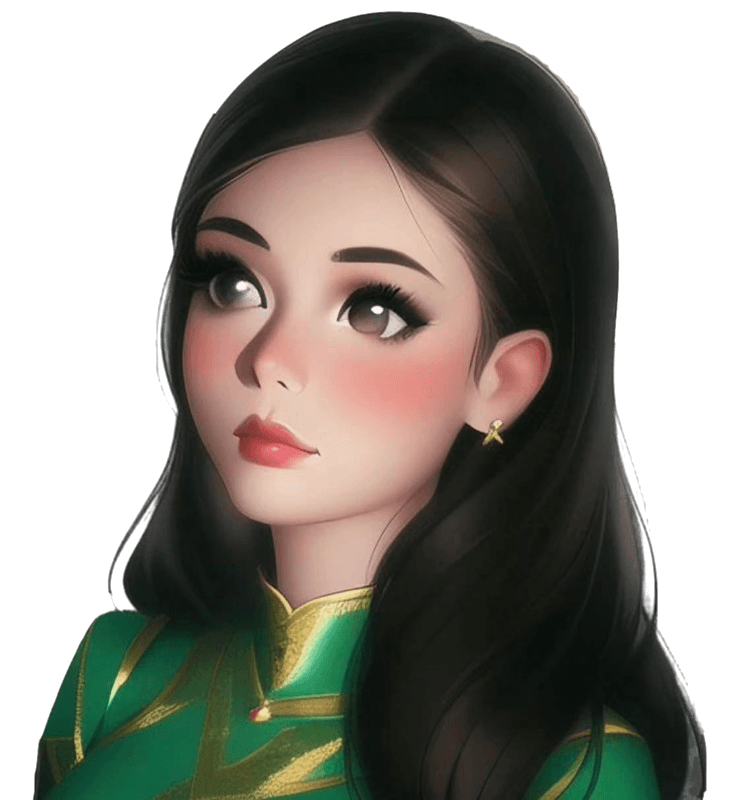
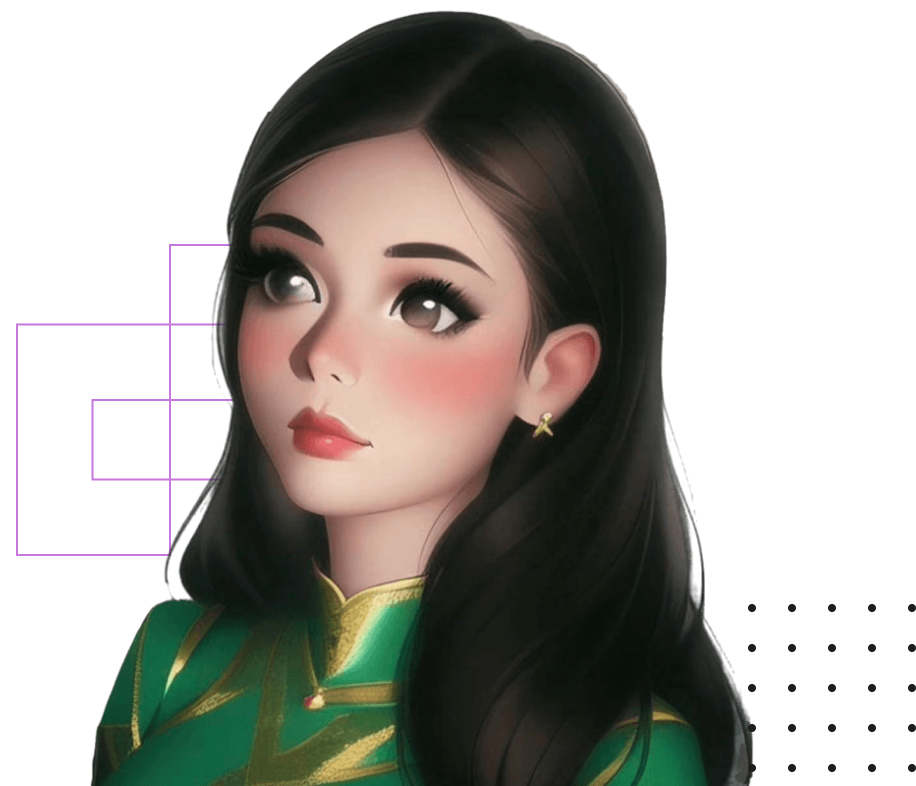
added homepage content

diff --git a/index.html b/index.html
@@ -38,35 +38,121 @@
       <div class="row">
         <div class="col-sm-1">
           <ul class="socials-icons">
+            <li><img src="/img/line-1.png" alt="line" class="socials-line"></li>
             <li>
-            |
+              <a href="#" target="_blank"
+                ><i
+                  class="fa-brands fa-instagram fa-xl"
+                  style="color: #c778dd"
+                ></i
+              ></a>
             </li>
             <li>
-              <a href="#" target="_blank"><i class="fa-brands fa-instagram fa-xl" style="color: #c778dd;"></i></a>
+              <a href="https://github.com/axteria" target="_blank"
+                ><i
+                  class="fa-brands fa-github-alt fa-xl"
+                  style="color: #c778dd"
+                ></i
+              ></a>
             </li>
             <li>
-              <a href="https://github.com/axteria" target="_blank"><i class="fa-brands fa-github-alt fa-xl" style="color: #c778dd;"></i></a>
-            </li>
-            <li>
-              <a href="https://www.linkedin.com/in/faye-678a74114/" target="_blank"><i class="fa-brands fa-linkedin-in fa-xl" style="color: #c778dd;"></i></a>
+              <a
+                href="https://www.linkedin.com/in/faye-678a74114/"
+                target="_blank"
+                ><i
+                  class="fa-brands fa-linkedin-in fa-xl"
+                  style="color: #c778dd"
+                ></i
+              ></a>
             </li>
           </ul>
         </div>
         <div class="col-sm index-hero">
-          <h1>Faye is a <span class="highlight-text">front-end developer</span></h1>
+          <h1>
+            Faye is a <span class="highlight-text">front-end developer</span>
+          </h1>
           <h3 class="mt-4 mb-4">She is based in Melbourne, Australia</h3>
-          <button class="primary-button">Contact Me!</button>
+          <a href="/" class="launch-links text-reset text-decoration-none">Contact Me!</a>
         </div>
         <div class="col-sm">
-          <img src="img/avatar.png" alt="avatar of faye" title="avatar of faye" class="avatar img-fluid  max-width: 100%;">
+          <img
+            src="img/avatar.png"
+            alt="avatar of faye"
+            title="avatar of faye"
+            class="avatar img-fluid max-width: 100%;"
+          />
+        </div>
       </div>
     </div>
-  </body>
 
-    <footer>
-      <a href="/">Home</a>
-      <a href="/about.html">About</a>
-      <a href="/projects.html">Projects</a>
-      <a href="/contact.html">Contact</a>
-    </footer>
+<!-- FEATURED PROJECTS -->
+    <div class="container mt-5 mb-3">
+      <div class="row">
+        <div class="col-sm-8">
+          <h2 class="mb-3">
+            <span class="highlight-text">#</span>featured projects
+            <span class="highlight-text">__________</span>
+          </h2>
+        </div>
+        <div class="col-sm-4 view-all">
+          <a href="/projects.html" class="text-reset text-decoration-none"
+            >view all ►</a
+          >
+        </div>
+      </div>
+
+<!-- CARD GRIDS -->
+    <div class="container mb-5">
+      <div class="row row-cols-1 row-cols-md-3 g-4 ">
+        <div class="col">
+        <div class="card h-100 card-height border-dark rounded-0">
+          <img src="/img/yoga.png" class="card-img-top img-fluid" alt="..." title="...">
+          <div class="card-body">
+            <p>HTML CSS </p>
+            <hr>
+            <p class="card-text">
+              <h2>Yoga app</h2>
+              Lorem ipsum dolor sit amet consectetur adipisicing elit. Perferendis quia, dignissimos nam ratione veniam quibusdam porro omnis quam vel eos eveniet alias temporibus deserunt veritatis minima fugiat explicabo eum dolore.
+            </p>
+            <a href="/" class="launch-links text-reset text-decoration-none">Launch App</a>
+              </div>
+            </div>
+          </div>
+          <div class="col">
+            <div class="card h-100 card-height border-dark rounded-0">
+              <img src="/img/weather.png" class="card-img-top img-fluid" alt="..." title="...">
+              <div class="card-body">
+                <p>HTML CSS JS</p>
+                <hr>
+                <p class="card-text">
+                  <h2>Weather App</h2>
+                  Lorem ipsum dolor sit amet consectetur adipisicing elit. Perferendis quia, dignissimos nam ratione veniam quibusdam porro omnis quam vel eos eveniet alias temporibus deserunt veritatis minima fugiat explicabo eum dolore.
+                </p>
+                <a href="/" class="launch-links text-reset text-decoration-none">Launch App</a>
+              </div>
+            </div>
+          </div>
+          <div class="col">
+            <div class="card h-100 card-height border-dark rounded-0">
+              <img src="/img/yogurt.png" class="card-img-top img-fluid" alt="..." title="">
+              <div class="card-body">
+                <p>HTML CSS</p>
+                <hr>
+                <p class="card-text">
+                  <h2>Yogurt</h2>
+                  Lorem ipsum dolor sit amet consectetur adipisicing elit. Perferendis quia, dignissimos nam ratione veniam quibusdam porro omnis quam vel eos eveniet alias temporibus deserunt veritatis minima fugiat explicabo eum dolore.
+                </p>
+                <a href="/" class="launch-links text-reset text-decoration-none">Launch App</a>
+              </div>
+            </div>
+          </div>
+        </div>
+      </div>
+
+  <footer class="mt-5">
+    <a href="/">Home</a>
+    <a href="/about.html">About</a>
+    <a href="/projects.html">Projects</a>
+    <a href="/contact.html">Contact</a>
+  </footer>
 </html>

diff --git a/style.css b/style.css
@@ -10,6 +10,11 @@ h1 {
   font-weight: bold;
 }
 
+h2 {
+  font-size: 24px;
+  line-height: 31px;
+}
+
 h3 {
   font-size: 16px;
   line-height: 25px;
@@ -19,12 +24,12 @@ h3 {
   color: var(--primary-color);
 }
 
-.primary-button {
+/* .primary-button {
   padding: 8px 16px;
   background-color: var(--background-color);
-  border: solid thick;
+  border: solid;
   border-color: var(--primary-color);
-}
+} */
 
 :root {
   --primary-color: rgb(199, 120, 221);
@@ -34,16 +39,36 @@ h3 {
 
 /* INDEX PAGE */
 .avatar {
-  max-width: 450px;
+  max-width: 400px;
 }
 
 .index-hero {
   margin-top: 100px;
 }
 
+.view-all {
+  text-align: right;
+}
+
+.card {
+  background-color: var(--background-color);
+}
+
+.launch-links {
+  padding: 10px 16px;
+  background-color: var(--background-color);
+  border: solid;
+  border-color: var(--primary-color);
+}
+
 /* SOCIALS BAR */
 .socials-icons {
   list-style-type: none;
+}
+
+.socials-line {
+  display: block;
+  margin-left: 8px;
 }
 
 li {
